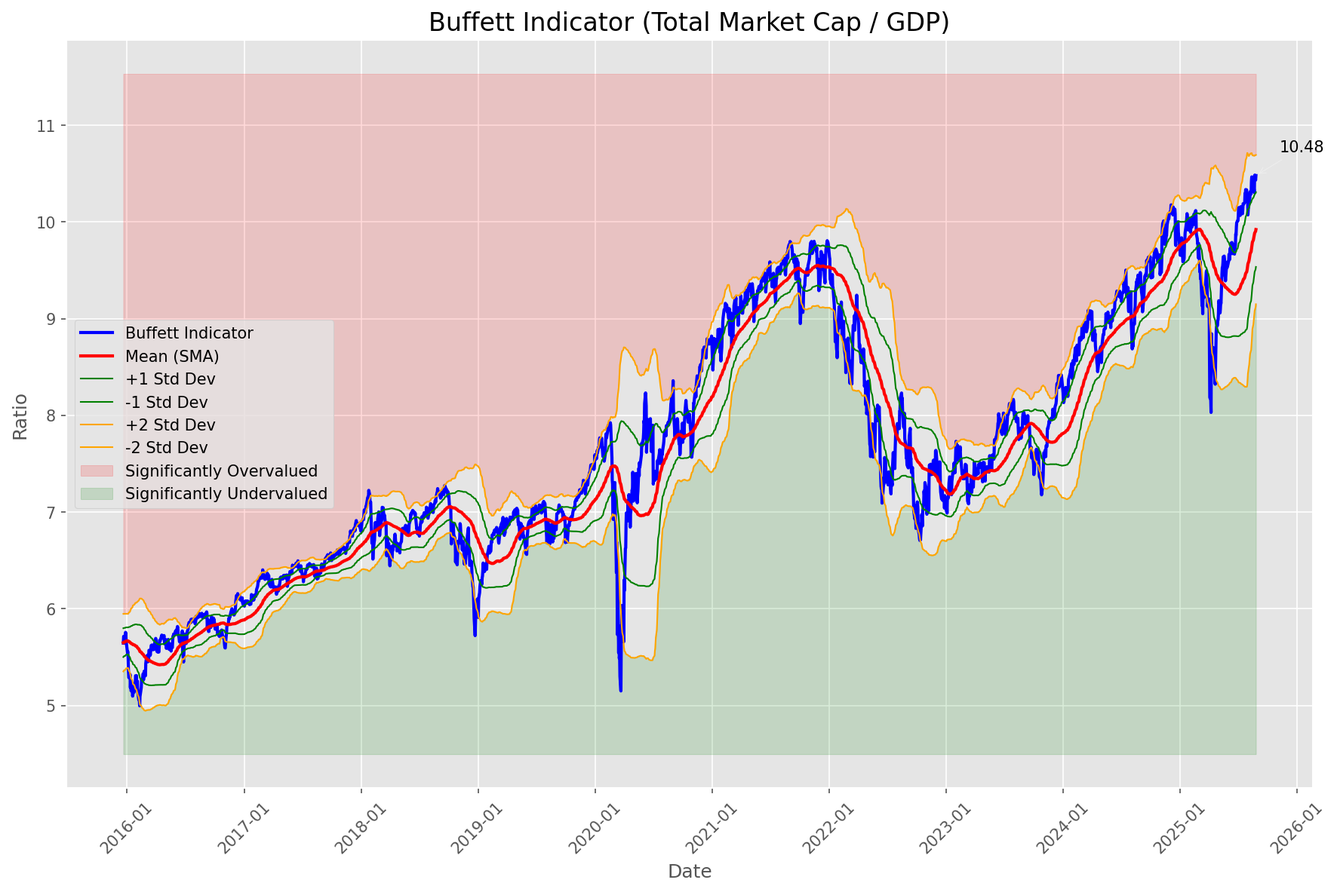
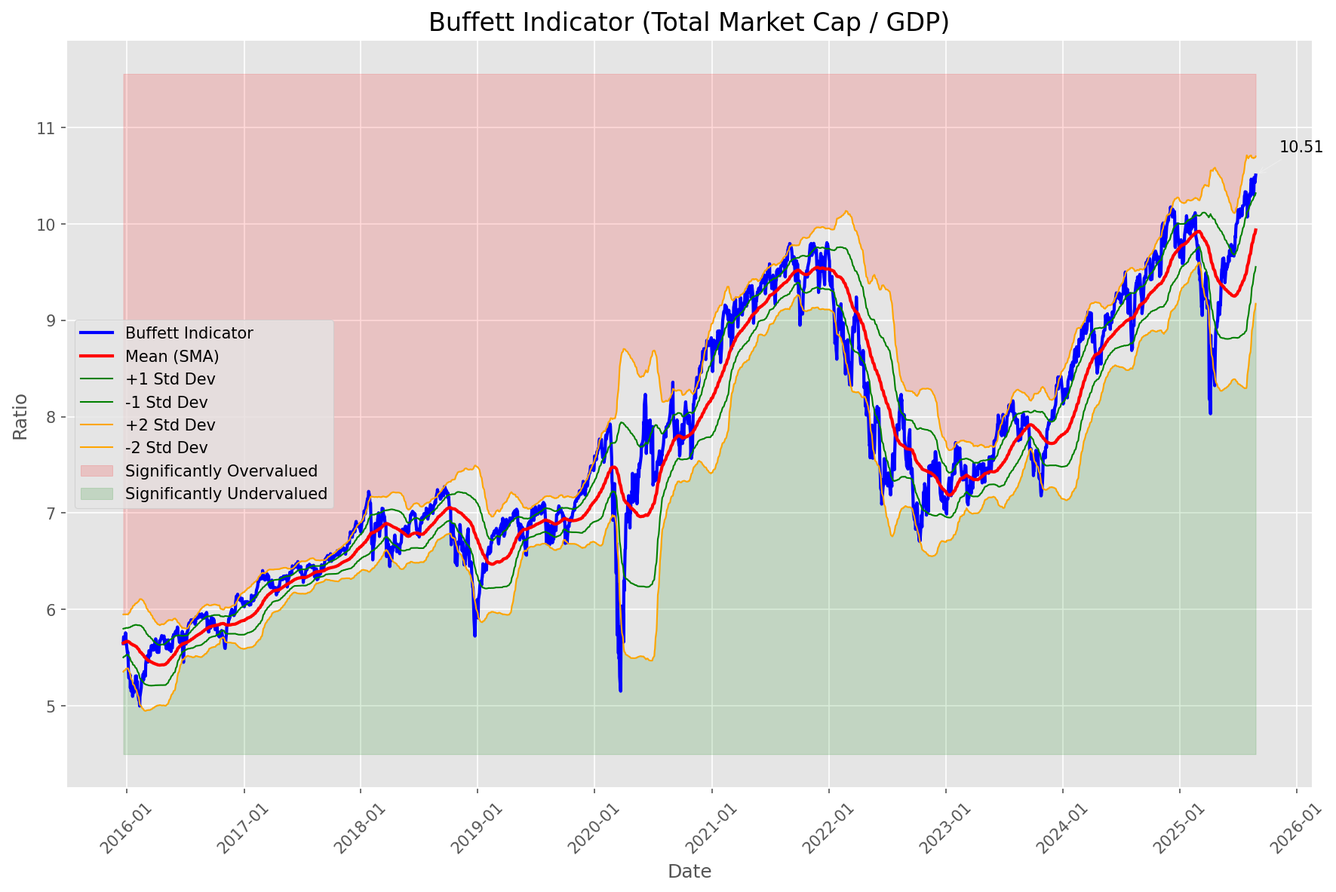
Add market report for 2025-08-28

diff --git a/oneil_relative_strength_report_2025-08-28.md b/oneil_relative_strength_report_2025-08-28.md
@@ -10,10 +10,10 @@
 |--------|-------|
 | **Market Valuation** | **Overvalued** |
 | **Current Ratio** | 10.51 |
-| **Historical Mean** | 9.92 |
-| **Standard Deviation** | 0.39 |
-| **Z-Score (StdDev from Mean)** | 1.45 |
-| **Total Market Cap** | $318.94 trillion |
+| **Historical Mean** | 9.94 |
+| **Standard Deviation** | 0.38 |
+| **Z-Score (StdDev from Mean)** | 1.49 |
+| **Total Market Cap** | $318.87 trillion |
 | **GDP** | $30.35 trillion |
 
 ## **Market Insights**
@@ -49,41 +49,41 @@ Based on William O'Neil's Relative Strength Methodology
 
 | ETF | Strength | RS Rating | Performance | Above Key MAs | Trend | Sector |
 |-----|----------|-----------|-------------|--------------|-------|--------|
+| [ARKK](https://www.tradingview.com/chart/?symbol=ARKK) | 96.0 | 92.0 | 34.79% | 10d ✓, 50d ✓, 200d ✓ | ↗ | Innovation |
 | [ARKW](https://www.tradingview.com/chart/?symbol=ARKW) | 94.5 | 89.0 | 29.50% | 10d ✓, 50d ✓, 200d ✓ | ↗ | Next Generation Internet |
-| [SOXX](https://www.tradingview.com/chart/?symbol=SOXX) | 90.0 | 80.0 | 20.70% | 10d ✓, 50d ✓, 200d ✓ | ↗ | Semiconductors |
+| [URA](https://www.tradingview.com/chart/?symbol=URA) | 92.5 | 85.0 | 25.36% | 10d ✓, 50d ✓, 200d ✓ | ↗ | Uranium |
+| [SOXX](https://www.tradingview.com/chart/?symbol=SOXX) | 90.0 | 80.0 | 20.62% | 10d ✓, 50d ✓, 200d ✓ | ↗ | Semiconductors |
 | [BLOK](https://www.tradingview.com/chart/?symbol=BLOK) | 90.0 | 80.0 | 20.83% | 10d ✓, 50d ✓, 200d ✓ | ↗ | Blockchain & Cryptocurrency |
-| [URA](https://www.tradingview.com/chart/?symbol=URA) | 90.0 | 80.0 | 20.61% | 10d ✓, 50d ✓, 200d ✓ | ↗ | Uranium |
-| [SLV](https://www.tradingview.com/chart/?symbol=SLV) | 87.0 | 74.0 | 16.71% | 10d ✓, 50d ✓, 200d ✓ | ↗ | Silver |
-| [JETS](https://www.tradingview.com/chart/?symbol=JETS) | 86.0 | 72.0 | 15.36% | 10d ✓, 50d ✓, 200d ✓ | ↗ | Airlines |
-| [ARKK](https://www.tradingview.com/chart/?symbol=ARKK) | 85.6 | 91.0 | 32.54% | 10d ✗, 50d ✓, 200d ✓ | ↗ | Innovation |
+| [SLV](https://www.tradingview.com/chart/?symbol=SLV) | 87.0 | 74.0 | 16.63% | 10d ✓, 50d ✓, 200d ✓ | ↗ | Silver |
+| [ICLN](https://www.tradingview.com/chart/?symbol=ICLN) | 85.5 | 71.0 | 14.99% | 10d ✓, 50d ✓, 200d ✓ | ↗ | Clean Energy |
+| [JETS](https://www.tradingview.com/chart/?symbol=JETS) | 85.5 | 71.0 | 15.04% | 10d ✓, 50d ✓, 200d ✓ | ↗ | Airlines |
+| [XLK](https://www.tradingview.com/chart/?symbol=XLK) | 85.0 | 70.0 | 14.33% | 10d ✓, 50d ✓, 200d ✓ | ↗ | Technology |
 | [ARKF](https://www.tradingview.com/chart/?symbol=ARKF) | 84.6 | 89.0 | 29.84% | 10d ✗, 50d ✓, 200d ✓ | ↗ | Fintech Innovation |
-| [XLK](https://www.tradingview.com/chart/?symbol=XLK) | 84.5 | 69.0 | 14.36% | 10d ✓, 50d ✓, 200d ✓ | ↗ | Technology |
-| [ICLN](https://www.tradingview.com/chart/?symbol=ICLN) | 84.5 | 69.0 | 14.17% | 10d ✓, 50d ✓, 200d ✓ | ↗ | Clean Energy |
-| [PAVE](https://www.tradingview.com/chart/?symbol=PAVE) | 83.0 | 66.0 | 12.62% | 10d ✓, 50d ✓, 200d ✓ | ↗ | Infrastructure |
-| [AIQ](https://www.tradingview.com/chart/?symbol=AIQ) | 81.0 | 62.0 | 11.08% | 10d ✓, 50d ✓, 200d ✓ | ↗ | Artificial Intelligence & Technology |
+| [PAVE](https://www.tradingview.com/chart/?symbol=PAVE) | 83.0 | 66.0 | 12.71% | 10d ✓, 50d ✓, 200d ✓ | ↗ | Infrastructure |
+| [AIQ](https://www.tradingview.com/chart/?symbol=AIQ) | 82.5 | 65.0 | 11.97% | 10d ✓, 50d ✓, 200d ✓ | ↗ | Artificial Intelligence & Technology |
 | [IYZ](https://www.tradingview.com/chart/?symbol=IYZ) | 80.5 | 61.0 | 10.46% | 10d ✓, 50d ✓, 200d ✓ | ↗ | Telecommunications |
-| [XLC](https://www.tradingview.com/chart/?symbol=XLC) | 78.5 | 57.0 | 9.22% | 10d ✓, 50d ✓, 200d ✓ | ↗ | Communications |
-| [XLY](https://www.tradingview.com/chart/?symbol=XLY) | 78.0 | 56.0 | 8.78% | 10d ✓, 50d ✓, 200d ✓ | ↗ | Consumer Discretionary |
-| [XLI](https://www.tradingview.com/chart/?symbol=XLI) | 76.0 | 52.0 | 7.40% | 10d ✓, 50d ✓, 200d ✓ | ↗ | Industrial |
-| [XLF](https://www.tradingview.com/chart/?symbol=XLF) | 74.0 | 48.0 | 6.31% | 10d ✓, 50d ✓, 200d ✓ | ↗ | Financial |
-| [KWEB](https://www.tradingview.com/chart/?symbol=KWEB) | 73.1 | 66.0 | 12.79% | 10d ✗, 50d ✓, 200d ✓ | ↗ | Chinese Internet |
-| [ITB](https://www.tradingview.com/chart/?symbol=ITB) | 72.5 | 85.0 | 24.40% | 10d ✓, 50d ✓, 200d ✓ | ↘ | Home Construction |
-| [GLD](https://www.tradingview.com/chart/?symbol=GLD) | 68.5 | 37.0 | 2.93% | 10d ✓, 50d ✓, 200d ✓ | ↗ | Gold |
-| [DBA](https://www.tradingview.com/chart/?symbol=DBA) | 66.5 | 33.0 | 1.99% | 10d ✓, 50d ✓, 200d ✓ | ↗ | Agriculture |
-| [IBB](https://www.tradingview.com/chart/?symbol=IBB) | 64.0 | 68.0 | 13.68% | 10d ✓, 50d ✓, 200d ✓ | ↘ | Biotechnology |
-| [XLU](https://www.tradingview.com/chart/?symbol=XLU) | 63.6 | 47.0 | 5.90% | 10d ✗, 50d ✓, 200d ✓ | ↗ | Utilities |
-| [XLE](https://www.tradingview.com/chart/?symbol=XLE) | 58.5 | 57.0 | 9.27% | 10d ✓, 50d ✓, 200d ✓ | ↘ | Energy |
-| [CIBR](https://www.tradingview.com/chart/?symbol=CIBR) | 57.6 | 35.0 | 2.38% | 10d ✓, 50d ✗, 200d ✓ | ↗ | Cybersecurity |
-| [ARKG](https://www.tradingview.com/chart/?symbol=ARKG) | 57.6 | 75.0 | 17.16% | 10d ✗, 50d ✓, 200d ✓ | ↘ | Genomics |
+| [XLC](https://www.tradingview.com/chart/?symbol=XLC) | 80.0 | 60.0 | 10.16% | 10d ✓, 50d ✓, 200d ✓ | ↗ | Communications |
+| [XLY](https://www.tradingview.com/chart/?symbol=XLY) | 78.0 | 56.0 | 8.67% | 10d ✓, 50d ✓, 200d ✓ | ↗ | Consumer Discretionary |
+| [XLI](https://www.tradingview.com/chart/?symbol=XLI) | 76.0 | 52.0 | 7.34% | 10d ✓, 50d ✓, 200d ✓ | ↗ | Industrial |
+| [XLF](https://www.tradingview.com/chart/?symbol=XLF) | 73.5 | 47.0 | 5.84% | 10d ✓, 50d ✓, 200d ✓ | ↗ | Financial |
+| [KWEB](https://www.tradingview.com/chart/?symbol=KWEB) | 71.6 | 63.0 | 11.25% | 10d ✗, 50d ✓, 200d ✓ | ↗ | Chinese Internet |
+| [CIBR](https://www.tradingview.com/chart/?symbol=CIBR) | 70.0 | 40.0 | 3.55% | 10d ✓, 50d ✓, 200d ✓ | ↗ | Cybersecurity |
+| [ARKG](https://www.tradingview.com/chart/?symbol=ARKG) | 68.5 | 77.0 | 18.98% | 10d ✓, 50d ✓, 200d ✓ | ↘ | Genomics |
+| [GLD](https://www.tradingview.com/chart/?symbol=GLD) | 68.5 | 37.0 | 2.70% | 10d ✓, 50d ✓, 200d ✓ | ↗ | Gold |
+| [DBA](https://www.tradingview.com/chart/?symbol=DBA) | 67.0 | 34.0 | 1.99% | 10d ✓, 50d ✓, 200d ✓ | ↗ | Agriculture |
+| [XLU](https://www.tradingview.com/chart/?symbol=XLU) | 62.1 | 44.0 | 4.92% | 10d ✗, 50d ✓, 200d ✓ | ↗ | Utilities |
+| [IBB](https://www.tradingview.com/chart/?symbol=IBB) | 62.0 | 64.0 | 11.64% | 10d ✓, 50d ✓, 200d ✓ | ↘ | Biotechnology |
+| [ITB](https://www.tradingview.com/chart/?symbol=ITB) | 61.1 | 82.0 | 22.54% | 10d ✗, 50d ✓, 200d ✓ | ↘ | Home Construction |
 | [IYT](https://www.tradingview.com/chart/?symbol=IYT) | 57.0 | 54.0 | 8.05% | 10d ✓, 50d ✓, 200d ✓ | ↘ | Transportation |
-| [XLB](https://www.tradingview.com/chart/?symbol=XLB) | 55.5 | 51.0 | 7.14% | 10d ✓, 50d ✓, 200d ✓ | ↘ | Materials |
-| [IYR](https://www.tradingview.com/chart/?symbol=IYR) | 50.5 | 41.0 | 3.97% | 10d ✓, 50d ✓, 200d ✓ | ↘ | Real Estate |
-| [BIL](https://www.tradingview.com/chart/?symbol=BIL) | 42.0 | 24.0 | 0.02% | 10d ✓, 50d ✓, 200d ✓ | ↘ | Short-term Treasuries |
+| [XLE](https://www.tradingview.com/chart/?symbol=XLE) | 57.0 | 54.0 | 8.03% | 10d ✓, 50d ✓, 200d ✓ | ↘ | Energy |
+| [XLB](https://www.tradingview.com/chart/?symbol=XLB) | 54.5 | 49.0 | 6.38% | 10d ✓, 50d ✓, 200d ✓ | ↘ | Materials |
+| [IYR](https://www.tradingview.com/chart/?symbol=IYR) | 48.0 | 36.0 | 2.56% | 10d ✓, 50d ✓, 200d ✓ | ↘ | Real Estate |
+| [BIL](https://www.tradingview.com/chart/?symbol=BIL) | 42.5 | 25.0 | 0.03% | 10d ✓, 50d ✓, 200d ✓ | ↘ | Short-term Treasuries |
 | [DBC](https://www.tradingview.com/chart/?symbol=DBC) | 41.1 | 42.0 | 4.21% | 10d ✓, 50d ✗, 200d ✓ | ↘ | Commodities |
-| [XLV](https://www.tradingview.com/chart/?symbol=XLV) | 40.8 | 42.0 | 4.18% | 10d ✓, 50d ✓, 200d ✗ | ↘ | Healthcare |
-| [UUP](https://www.tradingview.com/chart/?symbol=UUP) | 31.3 | 23.0 | -0.43% | 10d ✓, 50d ✓, 200d ✗ | ↘ | U.S. Dollar |
-| [TLT](https://www.tradingview.com/chart/?symbol=TLT) | 15.0 | 30.0 | 1.51% | 10d ✗, 50d ✗, 200d ✗ | ↘ | Long-term Treasuries |
-| [XLP](https://www.tradingview.com/chart/?symbol=XLP) | 10.5 | 21.0 | -1.24% | 10d ✗, 50d ✗, 200d ✗ | ↘ | Consumer Staples |
+| [TLT](https://www.tradingview.com/chart/?symbol=TLT) | 33.8 | 28.0 | 0.84% | 10d ✓, 50d ✓, 200d ✗ | ↘ | Long-term Treasuries |
+| [XLV](https://www.tradingview.com/chart/?symbol=XLV) | 28.4 | 37.0 | 2.77% | 10d ✗, 50d ✓, 200d ✗ | ↘ | Healthcare |
+| [UUP](https://www.tradingview.com/chart/?symbol=UUP) | 21.9 | 24.0 | -0.24% | 10d ✗, 50d ✓, 200d ✗ | ↘ | U.S. Dollar |
+| [XLP](https://www.tradingview.com/chart/?symbol=XLP) | 10.0 | 20.0 | -2.39% | 10d ✗, 50d ✗, 200d ✗ | ↘ | Consumer Staples |
 
 ### **Sector ETF Performance Interpretation**
 
@@ -98,164 +98,177 @@ This table shows the relative strength metrics for different market sectors base
 
 ### **Current Sector Leadership**
 
-The current market leadership is coming from the following sectors: **Next Generation Internet, Semiconductors, Blockchain & Cryptocurrency**.
+The current market leadership is coming from the following sectors: **Innovation, Next Generation Internet, Uranium**.
 
-The **Next Generation Internet** sector (represented by **ARKW**) is showing particularly strong relative strength with an RS rating of 89.0 and performance of 29.50% vs. the S&P 500. This sector is trading above its 10-day, 50-day, 200-day moving average(s). Investors should consider focusing on high RS stocks within these leading sectors for potential outperformance.
+The **Innovation** sector (represented by **ARKK**) is showing particularly strong relative strength with an RS rating of 92.0 and performance of 34.79% vs. the S&P 500. This sector is trading above its 10-day, 50-day, 200-day moving average(s). Investors should consider focusing on high RS stocks within these leading sectors for potential outperformance.
 
 ---
 
 ## **Buy Recommendations**
 
-The following 57 stocks show exceptional relative strength:
+The following 49 stocks show exceptional relative strength:
 
 | RS Rating | Buy Score | Current Price | Chart | Name | Ticker |
 |-----------|-----------|---------------|-------|------|--------|
-| 100 | 100 | $71.40 | [Chart](https://www.tradingview.com/chart/?symbol=MP) | MP Materials Corp. | MP |
-| 100 | 100 | $122.73 | [Chart](https://www.tradingview.com/chart/?symbol=CRDO) | Credo Technology Group Holding Ltd Ordinary Shares | CRDO |
-| 100 | 100 | $67.92 | [Chart](https://www.tradingview.com/chart/?symbol=KTOS) | Kratos Defense & Security Solutions, Inc. | KTOS |
-| 100 | 100 | $28.00 | [Chart](https://www.tradingview.com/chart/?symbol=LQDA) | Liquidia Corporation Common Stock | LQDA |
-| 99 | 100 | $202.10 | [Chart](https://www.tradingview.com/chart/?symbol=CLS) | Celestica, Inc. | CLS |
-| 99 | 100 | $183.93 | [Chart](https://www.tradingview.com/chart/?symbol=FUTU) | Futu Holdings Limited American Depositary Shares | FUTU |
-| 98 | 100 | $35.59 | [Chart](https://www.tradingview.com/chart/?symbol=CPS) | Cooper-Standard Automotive Inc. | CPS |
-| 98 | 100 | $381.50 | [Chart](https://www.tradingview.com/chart/?symbol=TLN) | Talen Energy Corporation Common Stock | TLN |
+| 100 | 100 | $67.86 | [Chart](https://www.tradingview.com/chart/?symbol=KTOS) | Kratos Defense & Security Solutions, Inc. | KTOS |
+| 100 | 100 | $189.25 | [Chart](https://www.tradingview.com/chart/?symbol=FUTU) | Futu Holdings Limited American Depositary Shares | FUTU |
+| 100 | 100 | $129.36 | [Chart](https://www.tradingview.com/chart/?symbol=CRDO) | Credo Technology Group Holding Ltd Ordinary Shares | CRDO |
+| 100 | 100 | $73.23 | [Chart](https://www.tradingview.com/chart/?symbol=MP) | MP Materials Corp. | MP |
+| 100 | 100 | $209.22 | [Chart](https://www.tradingview.com/chart/?symbol=CLS) | Celestica, Inc. | CLS |
+| 100 | 100 | $28.36 | [Chart](https://www.tradingview.com/chart/?symbol=LQDA) | Liquidia Corporation Common Stock | LQDA |
+| 99 | 100 | $207.74 | [Chart](https://www.tradingview.com/chart/?symbol=LEU) | Centrus Energy Corp. | LEU |
+| 99 | 100 | $46.33 | [Chart](https://www.tradingview.com/chart/?symbol=RKLB) | Rocket Lab Corporation Common Stock | RKLB |
+| 98 | 100 | $392.17 | [Chart](https://www.tradingview.com/chart/?symbol=TLN) | Talen Energy Corporation Common Stock | TLN |
 | 98 | 100 | $58.79 | [Chart](https://www.tradingview.com/chart/?symbol=TPC) | Tutor Perini Corporation | TPC |
-| 98 | 100 | $46.25 | [Chart](https://www.tradingview.com/chart/?symbol=RKLB) | Rocket Lab Corporation Common Stock | RKLB |
-| 97 | 100 | $44.50 | [Chart](https://www.tradingview.com/chart/?symbol=TTMI) | TTM Technologies Inc | TTMI |
+| 98 | 100 | $35.59 | [Chart](https://www.tradingview.com/chart/?symbol=CPS) | Cooper-Standard Automotive Inc. | CPS |
+| 97 | 100 | $46.02 | [Chart](https://www.tradingview.com/chart/?symbol=TTMI) | TTM Technologies Inc | TTMI |
+| 97 | 100 | $126.60 | [Chart](https://www.tradingview.com/chart/?symbol=RBLX) | Roblox Corporation | RBLX |
 | 96 | 100 | $54.56 | [Chart](https://www.tradingview.com/chart/?symbol=REVG) | REV Group, Inc. | REVG |
 | 96 | 100 | $91.00 | [Chart](https://www.tradingview.com/chart/?symbol=LIF) | Life360, Inc. Common Stock | LIF |
 | 96 | 100 | $190.98 | [Chart](https://www.tradingview.com/chart/?symbol=COOP) | Mr. Cooper Group Inc. Common Stock | COOP |
-| 96 | 100 | $32.84 | [Chart](https://www.tradingview.com/chart/?symbol=GFI) | Gold Fields Ltd ADR | GFI |
-| 96 | 100 | $122.70 | [Chart](https://www.tradingview.com/chart/?symbol=RBLX) | Roblox Corporation | RBLX |
-| 95 | 100 | $62.94 | [Chart](https://www.tradingview.com/chart/?symbol=VIK) | Viking Holdings Ltd | VIK |
-| 95 | 100 | $105.78 | [Chart](https://www.tradingview.com/chart/?symbol=VRNA) | Verona Pharma plc | VRNA |
-| 95 | 100 | $68.13 | [Chart](https://www.tradingview.com/chart/?symbol=MRCY) | Mercury Systems Inc. | MRCY |
-| 95 | 100 | $359.07 | [Chart](https://www.tradingview.com/chart/?symbol=RCL) | Royal Caribbean Group | RCL |
-| 94 | 100 | $116.95 | [Chart](https://www.tradingview.com/chart/?symbol=SANM) | Sanmina  Corp | SANM |
-| 93 | 100 | $98.49 | [Chart](https://www.tradingview.com/chart/?symbol=TPB) | Turning Point Brands, Inc. | TPB |
+| 95 | 100 | $119.75 | [Chart](https://www.tradingview.com/chart/?symbol=SANM) | Sanmina  Corp | SANM |
+| 95 | 100 | $363.74 | [Chart](https://www.tradingview.com/chart/?symbol=RCL) | Royal Caribbean Group | RCL |
+| 95 | 100 | $63.56 | [Chart](https://www.tradingview.com/chart/?symbol=VIK) | Viking Holdings Ltd | VIK |
+| 94 | 100 | $68.13 | [Chart](https://www.tradingview.com/chart/?symbol=MRCY) | Mercury Systems Inc. | MRCY |
+| 94 | 100 | $98.49 | [Chart](https://www.tradingview.com/chart/?symbol=TPB) | Turning Point Brands, Inc. | TPB |
+| 93 | 100 | $640.86 | [Chart](https://www.tradingview.com/chart/?symbol=GEV) | GE Vernova Inc. | GEV |
 | 90 | 100 | $96.56 | [Chart](https://www.tradingview.com/chart/?symbol=LLYVK) | Liberty Media Corporation Series C Liberty Live Common Stock | LLYVK |
 | 90 | 100 | $75.45 | [Chart](https://www.tradingview.com/chart/?symbol=WNS) | WNS (Holdings) Limited | WNS |
+| 89 | 100 | $60.52 | [Chart](https://www.tradingview.com/chart/?symbol=CALX) | CALIX, INC. | CALX |
+| 89 | 100 | $102.14 | [Chart](https://www.tradingview.com/chart/?symbol=TPR) | Tapestry, Inc. Common Stock | TPR |
 | 89 | 100 | $31.29 | [Chart](https://www.tradingview.com/chart/?symbol=SRAD) | Sportradar Group AG Class A Ordinary Shares | SRAD |
 | 88 | 100 | $48.71 | [Chart](https://www.tradingview.com/chart/?symbol=LTM) | LATAM Airlines Group S.A. American Depositary Shares (each representing two thousand (2,000) shares of Common Stock) | LTM |
-| 88 | 100 | $622.39 | [Chart](https://www.tradingview.com/chart/?symbol=GEV) | GE Vernova Inc. | GEV |
+| 90 | 99 | $23.07 | [Chart](https://www.tradingview.com/chart/?symbol=BZ) | KANZHUN LIMITED American Depository Shares | BZ |
+| 89 | 99 | $55.88 | [Chart](https://www.tradingview.com/chart/?symbol=SIL) | Global X Silver Miners ETF (NEW) | SIL |
 | 89 | 99 | $157.24 | [Chart](https://www.tradingview.com/chart/?symbol=ARKW) | ARK Next Generation Internet ETF | ARKW |
-| 89 | 99 | $55.95 | [Chart](https://www.tradingview.com/chart/?symbol=SIL) | Global X Silver Miners ETF (NEW) | SIL |
-| 88 | 99 | $96.87 | [Chart](https://www.tradingview.com/chart/?symbol=C) | Citigroup Inc. | C |
+| 88 | 99 | $97.21 | [Chart](https://www.tradingview.com/chart/?symbol=C) | Citigroup Inc. | C |
 | 87 | 99 | $165.07 | [Chart](https://www.tradingview.com/chart/?symbol=VSEC) | VSE Corp | VSEC |
-| 86 | 99 | $205.24 | [Chart](https://www.tradingview.com/chart/?symbol=NET) | Cloudflare, Inc. Class A common stock, par value $0.001 per share | NET |
-| 86 | 99 | $100.98 | [Chart](https://www.tradingview.com/chart/?symbol=TPR) | Tapestry, Inc. Common Stock | TPR |
 | 86 | 99 | $269.68 | [Chart](https://www.tradingview.com/chart/?symbol=IDCC) | InterDigital, Inc. | IDCC |
 | 89 | 98 | $17.58 | [Chart](https://www.tradingview.com/chart/?symbol=ARLO) | Arlo Technologies, Inc. | ARLO |
-| 89 | 98 | $22.85 | [Chart](https://www.tradingview.com/chart/?symbol=BZ) | KANZHUN LIMITED American Depository Shares | BZ |
 | 88 | 98 | $54.10 | [Chart](https://www.tradingview.com/chart/?symbol=FHI) | Federated Hermes, Inc. | FHI |
-| 87 | 98 | $23.95 | [Chart](https://www.tradingview.com/chart/?symbol=MAG) | MAG Silver Corp. | MAG |
-| 86 | 98 | $55.35 | [Chart](https://www.tradingview.com/chart/?symbol=AU) | AngloGold Ashanti plc | AU |
+| 87 | 98 | $23.72 | [Chart](https://www.tradingview.com/chart/?symbol=MAG) | MAG Silver Corp. | MAG |
 | 87 | 97 | $197.67 | [Chart](https://www.tradingview.com/chart/?symbol=AWI) | Armstrong World Industries, Inc. | AWI |
-| 86 | 97 | $59.40 | [Chart](https://www.tradingview.com/chart/?symbol=CALX) | CALIX, INC. | CALX |
-| 86 | 97 | $24.39 | [Chart](https://www.tradingview.com/chart/?symbol=EYE) | National Vision Holdings, Inc. Common Stock | EYE |
 | 84 | 97 | $52.52 | [Chart](https://www.tradingview.com/chart/?symbol=RING) | iShares MSCI Global Gold Miners ETF | RING |
-| 86 | 96 | $28.58 | [Chart](https://www.tradingview.com/chart/?symbol=ACMR) | ACM Research, Inc. Class A Common Stock | ACMR |
-| 85 | 96 | $110.13 | [Chart](https://www.tradingview.com/chart/?symbol=APH) | Amphenol Corporation | APH |
-| 85 | 96 | $293.59 | [Chart](https://www.tradingview.com/chart/?symbol=VEEV) | Veeva Systems Inc. | VEEV |
 | 84 | 96 | $31.09 | [Chart](https://www.tradingview.com/chart/?symbol=OR) | OR Royalties Inc. | OR |
 | 83 | 96 | $42.73 | [Chart](https://www.tradingview.com/chart/?symbol=AHR) | American Healthcare REIT, Inc. | AHR |
 | 85 | 95 | $16.40 | [Chart](https://www.tradingview.com/chart/?symbol=EZPW) | Ezcorp Inc | EZPW |
 | 82 | 95 | $27.34 | [Chart](https://www.tradingview.com/chart/?symbol=LAUR) | Laureate Education, Inc. Common Stock | LAUR |
-| 83 | 93 | $20.51 | [Chart](https://www.tradingview.com/chart/?symbol=DAN) | Dana Incorporated | DAN |
+| 84 | 94 | $28.48 | [Chart](https://www.tradingview.com/chart/?symbol=ACMR) | ACM Research, Inc. Class A Common Stock | ACMR |
 | 81 | 92 | $252.33 | [Chart](https://www.tradingview.com/chart/?symbol=BAP) | Credicorp LTD | BAP |
-| 81 | 91 | $50.20 | [Chart](https://www.tradingview.com/chart/?symbol=FAST) | Fastenal Co | FAST |
-| 81 | 91 | $222.08 | [Chart](https://www.tradingview.com/chart/?symbol=AN) | AutoNation, Inc. | AN |
+| 81 | 91 | $84.57 | [Chart](https://www.tradingview.com/chart/?symbol=SAH) | Sonic Automotive, Inc. | SAH |
+| 81 | 91 | $49.95 | [Chart](https://www.tradingview.com/chart/?symbol=FAST) | Fastenal Co | FAST |
+| 81 | 91 | $221.16 | [Chart](https://www.tradingview.com/chart/?symbol=AN) | AutoNation, Inc. | AN |
 | 80 | 91 | $26.34 | [Chart](https://www.tradingview.com/chart/?symbol=TFPM) | Triple Flag Precious Metals Corp. | TFPM |
-| 80 | 90 | $84.57 | [Chart](https://www.tradingview.com/chart/?symbol=SAH) | Sonic Automotive, Inc. | SAH |
-| 80 | 89 | $26.57 | [Chart](https://www.tradingview.com/chart/?symbol=ACAD) | Acadia Pharmaceuticals Inc. | ACAD |
 
 ---
 
 
 ## **Sell Recommendations**
 
-The following 79 stocks show deteriorating relative strength:
+The following 100 stocks show deteriorating relative strength:
 
 | RS Rating | Sell Score | Current Price | Chart | Name | Ticker |
 |-----------|------------|---------------|-------|------|--------|
-| 2 | 100 | $22.39 | [Chart](https://www.tradingview.com/chart/?symbol=ZSL) | ProShares UltraShort Silver | ZSL |
-| 2 | 100 | $23.65 | [Chart](https://www.tradingview.com/chart/?symbol=TECS) | Direxion Daily Technology Bear 3x Shares | TECS |
+| 1 | 100 | $17.53 | [Chart](https://www.tradingview.com/chart/?symbol=DUST) | Direxion Daily Gold Miners Index Bear 2X Shares | DUST |
+| 2 | 100 | $23.53 | [Chart](https://www.tradingview.com/chart/?symbol=TECS) | Direxion Daily Technology Bear 3x Shares | TECS |
+| 2 | 100 | $21.83 | [Chart](https://www.tradingview.com/chart/?symbol=ZSL) | ProShares UltraShort Silver | ZSL |
 | 2 | 100 | $36.61 | [Chart](https://www.tradingview.com/chart/?symbol=TWM) | ProShares UltraShort Russell2000 | TWM |
 | 2 | 100 | $15.10 | [Chart](https://www.tradingview.com/chart/?symbol=KRNT) | Kornit Digital Ltd. | KRNT |
-| 2 | 100 | $26.63 | [Chart](https://www.tradingview.com/chart/?symbol=BRZE) | Braze, Inc. Class A Common Stock | BRZE |
 | 3 | 100 | $21.45 | [Chart](https://www.tradingview.com/chart/?symbol=CLW) | Clearwater Paper Corporation | CLW |
-| 3 | 100 | $35.65 | [Chart](https://www.tradingview.com/chart/?symbol=IOT) | Samsara Inc. | IOT |
-| 4 | 100 | $46.71 | [Chart](https://www.tradingview.com/chart/?symbol=EXAS) | Exact Sciences Corp | EXAS |
-| 4 | 100 | $37.89 | [Chart](https://www.tradingview.com/chart/?symbol=SDOW) | ProShares UltraPro Short Dow 30 | SDOW |
+| 3 | 100 | $45.17 | [Chart](https://www.tradingview.com/chart/?symbol=ONON) | On Holding AG | ONON |
+| 4 | 100 | $256.35 | [Chart](https://www.tradingview.com/chart/?symbol=ACN) | Accenture PLC | ACN |
+| 4 | 100 | $38.11 | [Chart](https://www.tradingview.com/chart/?symbol=SDOW) | ProShares UltraPro Short Dow 30 | SDOW |
+| 4 | 100 | $36.78 | [Chart](https://www.tradingview.com/chart/?symbol=IOT) | Samsara Inc. | IOT |
+| 5 | 100 | $47.55 | [Chart](https://www.tradingview.com/chart/?symbol=EXAS) | Exact Sciences Corp | EXAS |
 | 5 | 100 | $11.46 | [Chart](https://www.tradingview.com/chart/?symbol=CHPT) | ChargePoint Holdings, Inc. | CHPT |
-| 5 | 100 | $17.92 | [Chart](https://www.tradingview.com/chart/?symbol=DJT) | Trump Media & Technology Group Corp. Common Stock | DJT |
 | 6 | 100 | $15.25 | [Chart](https://www.tradingview.com/chart/?symbol=PRO) | Pros Holdings, Inc. | PRO |
-| 7 | 100 | $356.35 | [Chart](https://www.tradingview.com/chart/?symbol=ADBE) | Adobe Inc. | ADBE |
+| 6 | 100 | $16.08 | [Chart](https://www.tradingview.com/chart/?symbol=BTAL) | AGF U.S. Market Neutral Anti-Beta Fund | BTAL |
+| 7 | 100 | $355.95 | [Chart](https://www.tradingview.com/chart/?symbol=ADBE) | Adobe Inc. | ADBE |
 | 7 | 100 | $19.00 | [Chart](https://www.tradingview.com/chart/?symbol=GPCR) | Structure Therapeutics Inc. American Depositary Shares | GPCR |
+| 7 | 100 | $17.94 | [Chart](https://www.tradingview.com/chart/?symbol=DJT) | Trump Media & Technology Group Corp. Common Stock | DJT |
 | 10 | 100 | $59.65 | [Chart](https://www.tradingview.com/chart/?symbol=ATKR) | Atkore Inc. | ATKR |
-| 11 | 100 | $38.34 | [Chart](https://www.tradingview.com/chart/?symbol=SH) | ProShares Short S&P500 | SH |
-| 13 | 100 | $15.25 | [Chart](https://www.tradingview.com/chart/?symbol=CHCT) | Community Healthcare Trust Incorporated Common Stock, $0.01 par value per share | CHCT |
-| 13 | 100 | $17.14 | [Chart](https://www.tradingview.com/chart/?symbol=CTO) | CTO Realty Growth, Inc. | CTO |
-| 5 | 99 | $20.74 | [Chart](https://www.tradingview.com/chart/?symbol=ERY) | Direxion Daily Energy Bear 2X Shares | ERY |
+| 11 | 100 | $38.37 | [Chart](https://www.tradingview.com/chart/?symbol=SH) | ProShares Short S&P500 | SH |
+| 14 | 100 | $15.25 | [Chart](https://www.tradingview.com/chart/?symbol=CHCT) | Community Healthcare Trust Incorporated Common Stock, $0.01 par value per share | CHCT |
+| 14 | 100 | $17.14 | [Chart](https://www.tradingview.com/chart/?symbol=CTO) | CTO Realty Growth, Inc. | CTO |
+| 17 | 100 | $47.03 | [Chart](https://www.tradingview.com/chart/?symbol=EDU) | New Oriental Education and Technology Group, Inc. American Depositary Shares (each representing ten (10) Common Shares) | EDU |
 | 5 | 99 | $15.60 | [Chart](https://www.tradingview.com/chart/?symbol=MCS) | The Marcus Corporation | MCS |
-| 6 | 99 | $16.35 | [Chart](https://www.tradingview.com/chart/?symbol=BTAL) | AGF U.S. Market Neutral Anti-Beta Fund | BTAL |
+| 5 | 99 | $20.74 | [Chart](https://www.tradingview.com/chart/?symbol=ERY) | Direxion Daily Energy Bear 2X Shares | ERY |
 | 15 | 99 | $10.06 | [Chart](https://www.tradingview.com/chart/?symbol=NMZ) | Nuveen Municipal High Income Opportunity Fund | NMZ |
-| 3 | 98 | $45.18 | [Chart](https://www.tradingview.com/chart/?symbol=ONON) | On Holding AG | ONON |
 | 8 | 98 | $25.13 | [Chart](https://www.tradingview.com/chart/?symbol=GDEN) | Golden Entertainment, Inc. Common Stock | GDEN |
-| 13 | 98 | $10.42 | [Chart](https://www.tradingview.com/chart/?symbol=OEC) | Orion S.A. | OEC |
-| 22 | 98 | $46.88 | [Chart](https://www.tradingview.com/chart/?symbol=EDU) | New Oriental Education and Technology Group, Inc. American Depositary Shares (each representing ten (10) Common Shares) | EDU |
+| 9 | 98 | $33.31 | [Chart](https://www.tradingview.com/chart/?symbol=TECK) | Teck Resources Limited | TECK |
+| 14 | 98 | $38.79 | [Chart](https://www.tradingview.com/chart/?symbol=UDR) | UDR, Inc. | UDR |
+| 8 | 97 | $11.35 | [Chart](https://www.tradingview.com/chart/?symbol=PATH) | UiPath, Inc. | PATH |
+| 11 | 97 | $32.66 | [Chart](https://www.tradingview.com/chart/?symbol=PSQ) | ProShares Short QQQ | PSQ |
 | 12 | 97 | $10.02 | [Chart](https://www.tradingview.com/chart/?symbol=SPDN) | Direxion Daily S&P 500 Bear 1X Shares | SPDN |
-| 7 | 96 | $11.14 | [Chart](https://www.tradingview.com/chart/?symbol=PATH) | UiPath, Inc. | PATH |
+| 12 | 97 | $155.77 | [Chart](https://www.tradingview.com/chart/?symbol=PG) | Procter & Gamble Company | PG |
+| 14 | 97 | $10.42 | [Chart](https://www.tradingview.com/chart/?symbol=OEC) | Orion S.A. | OEC |
+| 13 | 96 | $24.91 | [Chart](https://www.tradingview.com/chart/?symbol=DOG) | ProShares Short Dow30 | DOG |
 | 13 | 96 | $22.81 | [Chart](https://www.tradingview.com/chart/?symbol=DIN) | Dine Brands Global, Inc. | DIN |
-| 11 | 95 | $32.71 | [Chart](https://www.tradingview.com/chart/?symbol=PSQ) | ProShares Short QQQ | PSQ |
-| 12 | 95 | $24.86 | [Chart](https://www.tradingview.com/chart/?symbol=DOG) | ProShares Short Dow30 | DOG |
-| 14 | 95 | $91.87 | [Chart](https://www.tradingview.com/chart/?symbol=IRM) | Iron Mountain Inc. | IRM |
+| 9 | 95 | $786.02 | [Chart](https://www.tradingview.com/chart/?symbol=EQIX) | Equinix, Inc. Common Stock REIT | EQIX |
+| 11 | 95 | $28.70 | [Chart](https://www.tradingview.com/chart/?symbol=CNX) | CNX Resources Corporation | CNX |
+| 12 | 95 | $30.86 | [Chart](https://www.tradingview.com/chart/?symbol=INVH) | Invitation Homes Inc. Common Stock | INVH |
 | 16 | 95 | $110.56 | [Chart](https://www.tradingview.com/chart/?symbol=CPT) | Camden Property Trust | CPT |
-| 16 | 94 | $38.98 | [Chart](https://www.tradingview.com/chart/?symbol=UDR) | UDR, Inc. | UDR |
-| 16 | 94 | $19.21 | [Chart](https://www.tradingview.com/chart/?symbol=AVBP) | ArriVent BioPharma, Inc. Common Stock | AVBP |
+| 7 | 94 | $175.49 | [Chart](https://www.tradingview.com/chart/?symbol=TEAM) | Atlassian Corporation Class A Common Stock | TEAM |
+| 7 | 94 | $20.52 | [Chart](https://www.tradingview.com/chart/?symbol=KVUE) | Kenvue Inc. | KVUE |
+| 10 | 94 | $129.06 | [Chart](https://www.tradingview.com/chart/?symbol=KMB) | Kimberly-Clark Corp. | KMB |
+| 11 | 94 | $83.65 | [Chart](https://www.tradingview.com/chart/?symbol=CL) | Colgate-Palmolive Company | CL |
+| 15 | 94 | $91.87 | [Chart](https://www.tradingview.com/chart/?symbol=IRM) | Iron Mountain Inc. | IRM |
 | 8 | 93 | $116.02 | [Chart](https://www.tradingview.com/chart/?symbol=IPAR) | Interparfums, Inc. Common Stock | IPAR |
+| 14 | 93 | $27.08 | [Chart](https://www.tradingview.com/chart/?symbol=TWST) | Twist Bioscience Corporation Common Stock | TWST |
 | 15 | 93 | $105.31 | [Chart](https://www.tradingview.com/chart/?symbol=MATX) | Matsons, Inc. | MATX |
+| 17 | 93 | $19.21 | [Chart](https://www.tradingview.com/chart/?symbol=AVBP) | ArriVent BioPharma, Inc. Common Stock | AVBP |
+| 9 | 92 | $205.28 | [Chart](https://www.tradingview.com/chart/?symbol=MMC) | Marsh & McLennan Companies, Inc. | MMC |
 | 16 | 92 | $141.57 | [Chart](https://www.tradingview.com/chart/?symbol=EXR) | Extra Space Storage, Inc. | EXR |
-| 12 | 91 | $29.07 | [Chart](https://www.tradingview.com/chart/?symbol=CNX) | CNX Resources Corporation | CNX |
-| 13 | 91 | $31.13 | [Chart](https://www.tradingview.com/chart/?symbol=INVH) | Invitation Homes Inc. Common Stock | INVH |
 | 13 | 91 | $26.85 | [Chart](https://www.tradingview.com/chart/?symbol=THR) | THERMON GROUP HOLDINGS, INC. | THR |
 | 16 | 91 | $25.90 | [Chart](https://www.tradingview.com/chart/?symbol=FCPT) | Four Corners Property Trust, Inc. | FCPT |
-| 19 | 91 | $10.46 | [Chart](https://www.tradingview.com/chart/?symbol=NMFC) | NEW MOUNTAIN FINANCE CORPORATION | NMFC |
 | 20 | 91 | $35.07 | [Chart](https://www.tradingview.com/chart/?symbol=RGR) | Sturm, Ruger & Company, Inc. | RGR |
-| 11 | 90 | $130.21 | [Chart](https://www.tradingview.com/chart/?symbol=KMB) | Kimberly-Clark Corp. | KMB |
-| 17 | 90 | $75.11 | [Chart](https://www.tradingview.com/chart/?symbol=AWR) | American States Water Company | AWR |
+| 20 | 90 | $10.46 | [Chart](https://www.tradingview.com/chart/?symbol=NMFC) | NEW MOUNTAIN FINANCE CORPORATION | NMFC |
 | 21 | 90 | $126.62 | [Chart](https://www.tradingview.com/chart/?symbol=ICUI) | ICU Medical Inc | ICUI |
+| 12 | 89 | $271.84 | [Chart](https://www.tradingview.com/chart/?symbol=CB) | Chubb Limited | CB |
 | 13 | 89 | $14.82 | [Chart](https://www.tradingview.com/chart/?symbol=OSPN) | OneSpan Inc. Common Stock | OSPN |
 | 14 | 89 | $245.98 | [Chart](https://www.tradingview.com/chart/?symbol=EFX) | Equifax, Incorporated | EFX |
+| 15 | 89 | $50.97 | [Chart](https://www.tradingview.com/chart/?symbol=DT) | Dynatrace, Inc. | DT |
+| 18 | 89 | $79.57 | [Chart](https://www.tradingview.com/chart/?symbol=K) | Kellanova | K |
+| 18 | 89 | $75.11 | [Chart](https://www.tradingview.com/chart/?symbol=AWR) | American States Water Company | AWR |
 | 19 | 89 | $10.93 | [Chart](https://www.tradingview.com/chart/?symbol=MQY) | Blackrock Muni Yield Quality Fund, Inc | MQY |
-| 21 | 89 | $23.35 | [Chart](https://www.tradingview.com/chart/?symbol=JANX) | Janux Therapeutics, Inc. Common Stock | JANX |
 | 21 | 89 | $27.10 | [Chart](https://www.tradingview.com/chart/?symbol=WKC) | World Kinect Corporation | WKC |
+| 21 | 89 | $23.35 | [Chart](https://www.tradingview.com/chart/?symbol=JANX) | Janux Therapeutics, Inc. Common Stock | JANX |
 | 23 | 89 | $29.77 | [Chart](https://www.tradingview.com/chart/?symbol=MGPI) | MGP Ingredients Inc | MGPI |
-| 13 | 88 | $50.12 | [Chart](https://www.tradingview.com/chart/?symbol=DT) | Dynatrace, Inc. | DT |
 | 14 | 88 | $68.98 | [Chart](https://www.tradingview.com/chart/?symbol=HSIC) | Henry Schein Inc | HSIC |
+| 15 | 87 | $35.41 | [Chart](https://www.tradingview.com/chart/?symbol=AMH) | AMERICAN HOMES 4 RENT | AMH |
 | 18 | 87 | $46.35 | [Chart](https://www.tradingview.com/chart/?symbol=TRUP) | Trupanion, Inc. | TRUP |
-| 18 | 87 | $14.72 | [Chart](https://www.tradingview.com/chart/?symbol=GBDC) | Golub Capital BDC, Inc. | GBDC |
 | 21 | 87 | $10.26 | [Chart](https://www.tradingview.com/chart/?symbol=NMCO) | Nuveen Municipal Credit Opportunities Fund | NMCO |
 | 21 | 87 | $10.20 | [Chart](https://www.tradingview.com/chart/?symbol=MUC) | BLACKROCK MUNIHOLDINGS CALIFORNIA QUALITY FUND, INC | MUC |
-| 29 | 87 | $24.00 | [Chart](https://www.tradingview.com/chart/?symbol=RTO) | Rentokil Initial plc American Depositary Shares (each representing five (5) Ordinary Shares) | RTO |
+| 16 | 86 | $44.24 | [Chart](https://www.tradingview.com/chart/?symbol=EPI) | WisdomTree India Earnings Fund ETF | EPI |
+| 19 | 86 | $14.72 | [Chart](https://www.tradingview.com/chart/?symbol=GBDC) | Golub Capital BDC, Inc. | GBDC |
 | 25 | 86 | $25.09 | [Chart](https://www.tradingview.com/chart/?symbol=VRIG) | Invesco Variable Rate Investment Grade ETF | VRIG |
-| 20 | 85 | $118.88 | [Chart](https://www.tradingview.com/chart/?symbol=RGEN) | Repligen Corp | RGEN |
+| 22 | 85 | $27.03 | [Chart](https://www.tradingview.com/chart/?symbol=CZR) | Caesars Entertainment, Inc. Common Stock | CZR |
+| 23 | 85 | $25.89 | [Chart](https://www.tradingview.com/chart/?symbol=WY) | Weyerhaeuser Company | WY |
 | 25 | 85 | $23.07 | [Chart](https://www.tradingview.com/chart/?symbol=BSJP) | Invesco BulletShares 2025 High Yield Corporate Bond ETF | BSJP |
+| 21 | 84 | $118.88 | [Chart](https://www.tradingview.com/chart/?symbol=RGEN) | Repligen Corp | RGEN |
 | 20 | 83 | $82.06 | [Chart](https://www.tradingview.com/chart/?symbol=AGO) | Assured Guaranty, LTD | AGO |
+| 21 | 83 | $69.95 | [Chart](https://www.tradingview.com/chart/?symbol=PYPL) | PayPal Holdings, Inc. Common Stock | PYPL |
 | 22 | 83 | $11.06 | [Chart](https://www.tradingview.com/chart/?symbol=FPI) | Farmland Partners Inc. | FPI |
-| 26 | 83 | $63.88 | [Chart](https://www.tradingview.com/chart/?symbol=ZROZ) | PIMCO 25+ Year Zero Coupon U.S. Treasury Index Exchange-Traded Fund | ZROZ |
-| 25 | 81 | $95.12 | [Chart](https://www.tradingview.com/chart/?symbol=GKOS) | Glaukos Corporation | GKOS |
+| 27 | 82 | $63.88 | [Chart](https://www.tradingview.com/chart/?symbol=ZROZ) | PIMCO 25+ Year Zero Coupon U.S. Treasury Index Exchange-Traded Fund | ZROZ |
 | 25 | 81 | $29.66 | [Chart](https://www.tradingview.com/chart/?symbol=AMAL) | Amalgamated Financial Corp. Common Stock (DE) | AMAL |
-| 27 | 81 | $137.56 | [Chart](https://www.tradingview.com/chart/?symbol=DVA) | DaVita Inc. | DVA |
+| 25 | 81 | $95.12 | [Chart](https://www.tradingview.com/chart/?symbol=GKOS) | Glaukos Corporation | GKOS |
+| 26 | 81 | $111.55 | [Chart](https://www.tradingview.com/chart/?symbol=PPG) | PPG Industries, Inc. | PPG |
 | 27 | 81 | $41.74 | [Chart](https://www.tradingview.com/chart/?symbol=WHD) | Cactus, Inc. | WHD |
+| 27 | 81 | $137.56 | [Chart](https://www.tradingview.com/chart/?symbol=DVA) | DaVita Inc. | DVA |
 | 29 | 81 | $40.57 | [Chart](https://www.tradingview.com/chart/?symbol=WLY) | John Wiley & Sons, Inc. Class A | WLY |
-| 22 | 79 | $18.59 | [Chart](https://www.tradingview.com/chart/?symbol=OWL) | Blue Owl Capital Inc. | OWL |
-| 26 | 76 | $20.90 | [Chart](https://www.tradingview.com/chart/?symbol=BKLN) | Invesco Senior Loan ETF | BKLN |
-| 33 | 74 | $87.66 | [Chart](https://www.tradingview.com/chart/?symbol=SBUX) | Starbucks Corp | SBUX |
-| 30 | 73 | $48.37 | [Chart](https://www.tradingview.com/chart/?symbol=IP) | International Paper Co. | IP |
-| 28 | 72 | $129.85 | [Chart](https://www.tradingview.com/chart/?symbol=ABNB) | Airbnb, Inc. Class A Common Stock | ABNB |
-| 32 | 72 | $15.91 | [Chart](https://www.tradingview.com/chart/?symbol=NCDL) | Nuveen Churchill Direct Lending Corp | NCDL |
-| 39 | 63 | $287.97 | [Chart](https://www.tradingview.com/chart/?symbol=AMGN) | Amgen Inc | AMGN |
-| 39 | 63 | $13.14 | [Chart](https://www.tradingview.com/chart/?symbol=PDBC) | Invesco Actively Managed Exch-Traded Commodity Fd Tr Invesco Optimum Yield Diversified Commodity Strategy No K-1 ETF | PDBC |
+| 34 | 80 | $102.27 | [Chart](https://www.tradingview.com/chart/?symbol=BNTX) | BioNTech SE American Depositary Share | BNTX |
+| 26 | 79 | $20.89 | [Chart](https://www.tradingview.com/chart/?symbol=BKLN) | Invesco Senior Loan ETF | BKLN |
+| 37 | 79 | $73.43 | [Chart](https://www.tradingview.com/chart/?symbol=GEHC) | GE HealthCare Technologies Inc. Common Stock | GEHC |
+| 28 | 78 | $285.63 | [Chart](https://www.tradingview.com/chart/?symbol=AMGN) | Amgen Inc | AMGN |
+| 30 | 78 | $37.38 | [Chart](https://www.tradingview.com/chart/?symbol=TMF) | Direxion Daily 20+ Year Treasury Bull 3X Shares (based on the NYSE 20 Year Plus Treasury Bond Index; symbol AXTWEN) | TMF |
+| 28 | 76 | $18.89 | [Chart](https://www.tradingview.com/chart/?symbol=OWL) | Blue Owl Capital Inc. | OWL |
+| 29 | 75 | $20.07 | [Chart](https://www.tradingview.com/chart/?symbol=STWD) | STARWOOD PROPERTY TRUST, INC. | STWD |
+| 32 | 75 | $48.76 | [Chart](https://www.tradingview.com/chart/?symbol=IP) | International Paper Co. | IP |
+| 30 | 73 | $129.91 | [Chart](https://www.tradingview.com/chart/?symbol=ABNB) | Airbnb, Inc. Class A Common Stock | ABNB |
+| 35 | 72 | $16.71 | [Chart](https://www.tradingview.com/chart/?symbol=QYLD) | Global X Funds Global X NASDAQ-100 Covered Call ETF | QYLD |
+| 31 | 71 | $42.13 | [Chart](https://www.tradingview.com/chart/?symbol=NNN) | NNN REIT, Inc. | NNN |
+| 33 | 71 | $15.91 | [Chart](https://www.tradingview.com/chart/?symbol=NCDL) | Nuveen Churchill Direct Lending Corp | NCDL |
+| 38 | 65 | $164.24 | [Chart](https://www.tradingview.com/chart/?symbol=AMAT) | Applied Materials Inc | AMAT |
 
 ## **Methodology**
 
